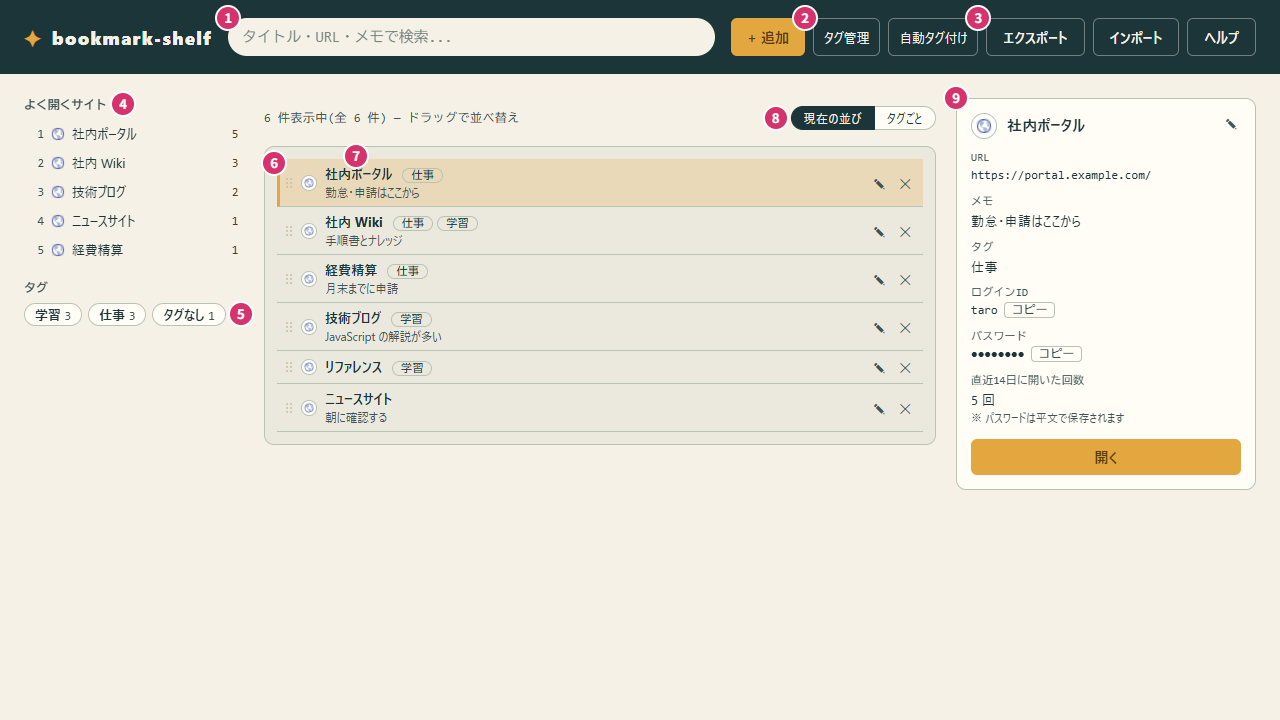
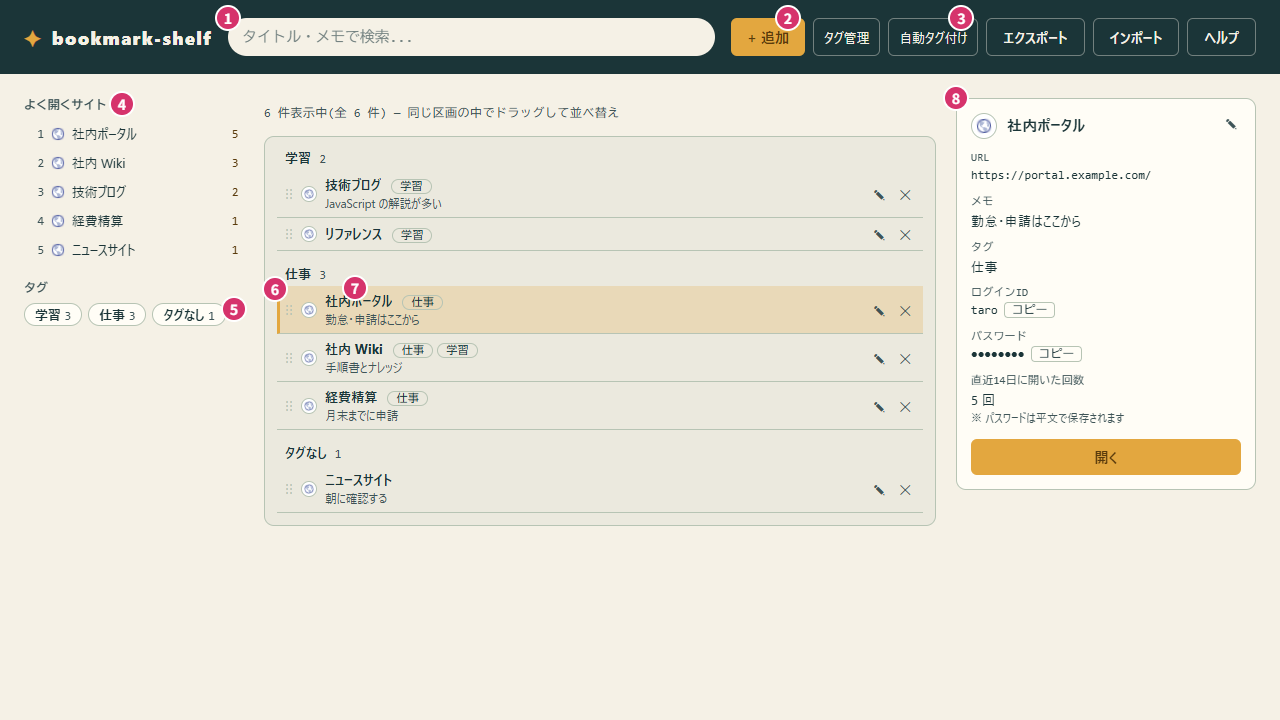
refactor: 一覧の「現在の並び」を廃止し、常に「タグごと」で表示する

diff --git a/bookmarks.html b/bookmarks.html
@@ -764,17 +764,6 @@
     background: var(--ivory);
   }
   .list-toolbar .result-count { margin: 0; }
-  .view-toggle { display: flex; }
-  .view-toggle-btn {
-    font-size: 0.78rem;
-    padding: 3px 12px;
-    border: 1px solid var(--sage);
-    background: var(--card);
-    color: var(--ink);
-  }
-  .view-toggle-btn:first-child { border-radius: 999px 0 0 999px; }
-  .view-toggle-btn:last-child { border-radius: 0 999px 999px 0; border-left: 0; }
-  .view-toggle-btn[aria-pressed="true"] { background: var(--ink); color: var(--ivory); border-color: var(--ink); }
 
   .tag-group + .tag-group { margin-top: 14px; }
   .tag-group-head {
@@ -935,10 +924,6 @@
   <main class="main">
     <div class="list-toolbar">
       <p class="result-count" id="result-count"></p>
-      <div class="view-toggle" role="group" aria-label="並び順">
-        <button type="button" class="view-toggle-btn" data-view="flat" aria-pressed="true">現在の並び</button>
-        <button type="button" class="view-toggle-btn" data-view="grouped" aria-pressed="false">タグごと</button>
-      </div>
     </div>
     <section class="list-section"><div class="list-grid" id="bookmark-list"></div></section>
   </main>
@@ -1077,20 +1062,6 @@
   }
 
   var tagOrder = loadTagOrder();
-
-  // 一覧の見せ方: 'flat'(現在の並び)か 'grouped'(タグごと)。不正な値・読めないときは 'flat'
-  var VIEW_MODE_KEY = 'bookmarks_view_mode';
-  state.viewMode = (function () {
-    try { return localStorage.getItem(VIEW_MODE_KEY) === 'grouped' ? 'grouped' : 'flat'; } catch (e) { return 'flat'; }
-  })();
-
-  document.querySelector('.view-toggle').addEventListener('click', function (e) {
-    var btn = e.target.closest('.view-toggle-btn');
-    if (!btn) return;
-    state.viewMode = btn.getAttribute('data-view') === 'grouped' ? 'grouped' : 'flat';
-    try { localStorage.setItem(VIEW_MODE_KEY, state.viewMode); } catch (err) { /* 保存できなくても、このセッションでは切り替わる */ }
-    render();
-  });
 
   function saveTagOrder() {
     localStorage.setItem(TAG_ORDER_KEY, JSON.stringify(tagOrder));
@@ -1689,25 +1660,18 @@
 
     document.getElementById('result-count').textContent =
       items.length + ' 件表示中(全 ' + bookmarks.length + ' 件)' +
-      (reorderable && items.length ? (state.viewMode === 'grouped' ? ' — 同じ区画の中でドラッグして並べ替え' : ' — ドラッグで並べ替え') : '');
-
-    Array.prototype.forEach.call(document.querySelectorAll('.view-toggle-btn'), function (btn) {
-      btn.setAttribute('aria-pressed', String(btn.getAttribute('data-view') === state.viewMode));
-    });
+      (reorderable && items.length ? ' — 同じ区画の中でドラッグして並べ替え' : '');
 
     function rowHtml(b) {
       return b.id === state.editingId ? renderEditCard(b) : renderCard(b, reorderable);
     }
-    var groups = state.viewMode === 'grouped' ? groupItems(items) : null;
 
     container.innerHTML = items.length
-      ? (groups
-          ? groups.map(function (g) {
-              return '<section class="tag-group" data-group="' + escapeHtml(g.key) + '">' +
-                '<h3 class="tag-group-head">' + escapeHtml(g.name) + '<span class="tag-group-count">' + g.items.length + '</span></h3>' +
-                g.items.map(rowHtml).join('') + '</section>';
-            }).join('')
-          : items.map(rowHtml).join(''))
+      ? groupItems(items).map(function (g) {
+          return '<section class="tag-group" data-group="' + escapeHtml(g.key) + '">' +
+            '<h3 class="tag-group-head">' + escapeHtml(g.name) + '<span class="tag-group-count">' + g.items.length + '</span></h3>' +
+            g.items.map(rowHtml).join('') + '</section>';
+        }).join('')
       : bookmarks.length
         ? '<div class="search-no-results">条件に一致するブックマークがありません。タグの選択か検索をクリアしてください。</div>'
         : '<div class="search-no-results">ブックマークがありません。「+ 追加」から登録してください。</div>';
@@ -2001,7 +1965,7 @@
   /* ---------- ドラッグ&ドロップ(並べ替え) ---------- */
 
   var draggedCardId = null;
-  var draggedGroup = null; // ドラッグ中の行がある区画のキー(タグごとの表示のとき。通常の並びでは null)
+  var draggedGroup = null; // ドラッグ中の行がある区画のキー
   var draggedTagKey = null;
   var draggedGroupTagKey = null; // タグ管理でドラッグ中のタグのキー
 
@@ -2045,7 +2009,7 @@
     moveGroupTag(key, keys[j], delta > 0);
   }
 
-  // group は、タグごとの表示での区画のキー(タグなしは '')。その区画の中だけで並べ替えられる。通常の並びでは null。
+  // group は、タグごとの表示での区画のキー(タグなしは '')。その区画の中だけで並べ替えられる。
   function bindDragEvents(card, b, group) {
     card.setAttribute('draggable', 'true');
     bindDragReorder(card, b.id, {

diff --git a/README.md b/README.md
@@ -1,6 +1,6 @@
 # bookmark-shelf
 
-ブックマークをタグで管理する、個人用のブラウザアプリです（v2.2.0）。
+ブックマークをタグで管理する、個人用のブラウザアプリです（v2.3.0）。
 
 > **注意: ログインパスワードは暗号化されず平文で保存されます。** 共有端末や信頼できない環境では、パスワードを保存しないでください。
 
@@ -44,11 +44,11 @@
 | サイトを開く | ⑦ のタイトルの文字を押す（④ の「よく開くサイト」でも開ける） | 新しいタブで開く。④ は、直近14日によく開いた上位10件で、このアプリから開いた回数だけを数える |
 | タグで絞る | ⑤ のタイルを押す（行の右のタグでも可） | そのタグが付いたものだけが出る。別のタイルで切り替わり、もう一度押すと全件に戻る。「タグなし」で、タグのないものだけを出せる |
 | 検索する | ① に、空白で区切って入力する | すべての語を含むものに絞られる（タイトル・メモ・タグ名が対象）。入力を始めると、選んでいたタグの絞り込みは外れる。×か Esc で解除する |
-| 詳細を見る | 行の余白を押す | ⑨ に詳細が出る。ログインID/パスワードは「コピー」、「開く」でサイトを開く |
+| 詳細を見る | 行の余白を押す | ⑧ に詳細が出る。ログインID/パスワードは「コピー」、「開く」でサイトを開く |
 | 編集・削除する | 行の右端の鉛筆（編集）か×（削除）を押す | 鉛筆で、その行の位置に編集フォームが出る |
 | 並べ替える | ⑥ をドラッグする | 順番が保存される。タグで絞り込み中もできるが、検索中はできない |
 | タグを付ける | ⑥ を、⑤ のタイルまでドラッグしてドロップする | その行にそのタグが付く（追加のみで、外れない）。付いているタグや「タグなし」では何も起きず、検索中は使えない |
-| 見せ方を変える | ⑧ で「現在の並び」と「タグごと」を切り替える | 「タグごと」では、タグ別の区画に分かれる。各ブックマークは、最初のタグの区画にだけ出る。最初のタグは、編集・追加フォームでタグのチップをドラッグして入れ替えると変えられる。選んだ見せ方は次回も引き継がれ、並べ替えは同じ区画の中だけでできる |
+| 区画の分かれ方を知る | ⑦ の一覧を見る | 一覧は常に、タグ別の区画に分かれる。各ブックマークは、最初のタグの区画にだけ出る。最初のタグは、編集・追加フォームでタグのチップをドラッグして入れ替えると変えられる。並べ替えは同じ区画の中だけでできる |
 | タグを並べ替える | ⑤ のタイルをドラッグする | 並びが保存される。並べていないときは件数の多い順で、「タグなし」は末尾に固定される |
 | タグの名前を変える・消す | ③「タグ管理」を押す | 改名と削除ができる。既存のタグ名に改名すると統合される。改名は、影響するブックマークを確認してから適用する。行をドラッグするか▲▼を押すと、「タグごと」の区画の順を変えられる（⑤ のタイルの順は変わらない） |
 | タグを自動で付ける | ③「自動タグ付け」を押す | 複数のブックマークに共通する語から、新しいタグの候補が出る（作るものを選ぶ）。次に「いまのタグ → 提案」の一覧が出て、チェックした行だけが提案のタグに置き換わる（外れるタグは赤字） |
